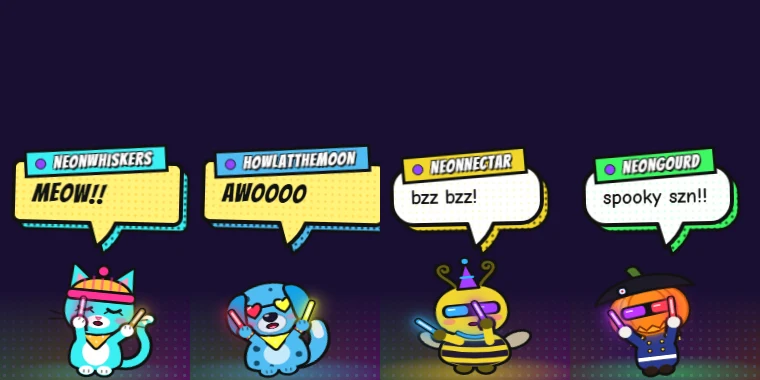
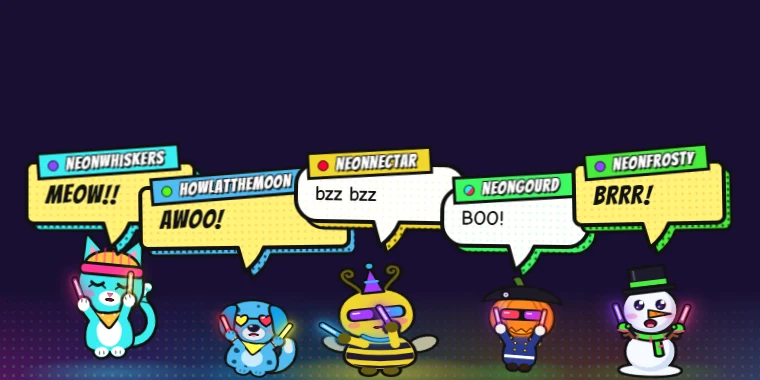
New Rave Chat thumbnail with all five themes and setup page fixes
The card and preview image now show a cat, dog, bee, jack-o'-lantern
and snowman. The setup page lists BRRR! among the POW! words, describes
the floor glow as following the theme, and asks about switching themes
rather than animals.

diff --git a/tools/rave.html b/tools/rave.html
@@ -295,8 +295,8 @@
               <tr><td>Hide known bots</td><td><code>botlist</code></td><td>on</td><td>Uses the public TwitchInsights bot list.</td></tr>
               <tr><td>Always hide these users</td><td><code>ignore</code></td><td>nightbot, streamelements, streamlabs, moobot, fossabot, wizebot</td><td>Comma or line separated.</td></tr>
               <tr><td class="group" colspan="4">Effects</td></tr>
-              <tr><td>Glowing dance floor</td><td><code>ambient</code></td><td>on</td><td>Rainbow floor glow while dancers are on stage.</td></tr>
-              <tr><td>Comic POW! bursts</td><td><code>sfx</code></td><td>on</td><td>KAPOW! pop-ups that match the theme: MEOW!, WOOF!, BZZZ! or BOO!</td></tr>
+              <tr><td>Glowing dance floor</td><td><code>ambient</code></td><td>on</td><td>A glow along the floor in the theme's colors while dancers are on stage.</td></tr>
+              <tr><td>Comic POW! bursts</td><td><code>sfx</code></td><td>on</td><td>KAPOW! pop-ups that match the theme: MEOW!, WOOF!, BZZZ!, BOO! or BRRR!</td></tr>
               <tr><td>Glowstick sparkles</td><td><code>sparks</code></td><td>on</td><td>Sparkles flying off the glowsticks.</td></tr>
             </tbody>
           </table>
@@ -341,7 +341,7 @@
                 <div><p>Yes. Give each browser source its own setup link and the URL settings win.</p></div>
               </details>
               <details>
-                <summary>Can I switch animals?</summary>
+                <summary>Can I switch themes?</summary>
                 <div>
                   <p>
                     Any time. Change the <em>Theme</em> in the settings, or add <code>theme=dogs</code> (or

diff --git a/index.html b/index.html
@@ -60,7 +60,7 @@
             <div class="shot">
               <img
                 src="assets/img/rave-card.webp"
-                alt="A cat, a spotted dog, a bee in shades and a jack-o'-lantern dance with glowsticks, saying MEOW, AWOOOO, bzz bzz and spooky szn in comic bubbles"
+                alt="A cat, a spotted dog, a bee in shades, a jack-o'-lantern and a snowman in a top hat dance with glowsticks, shouting MEOW!!, AWOO!, bzz bzz, BOO! and BRRR! in comic bubbles"
                 width="760"
                 height="380"
                 loading="lazy"
